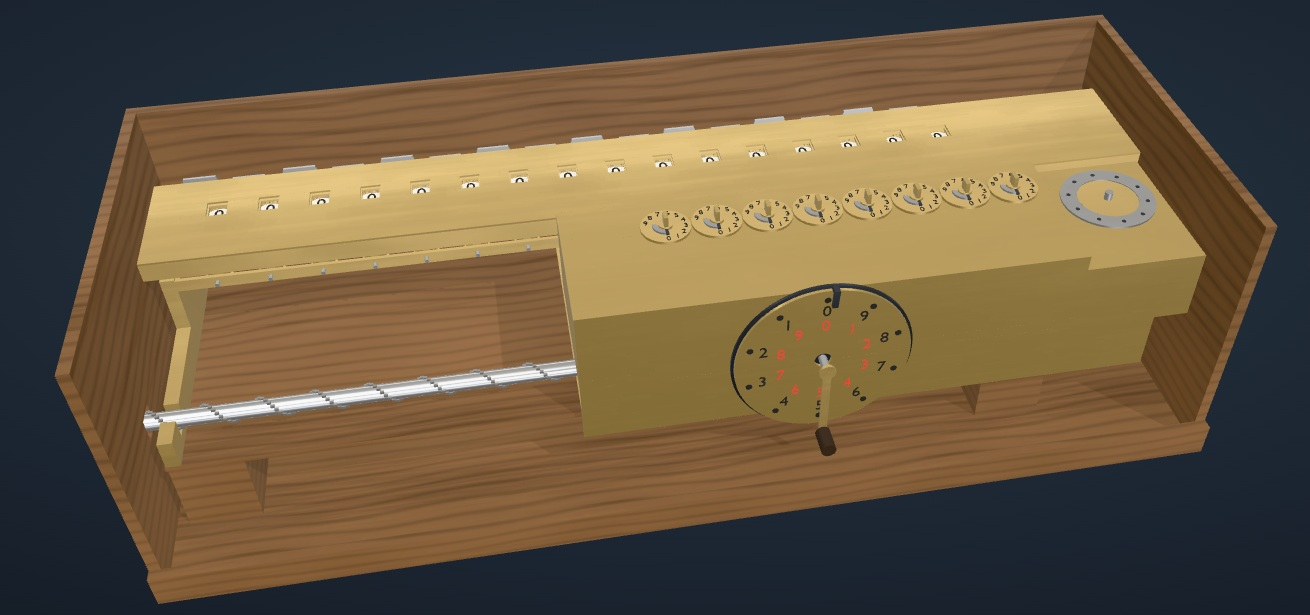
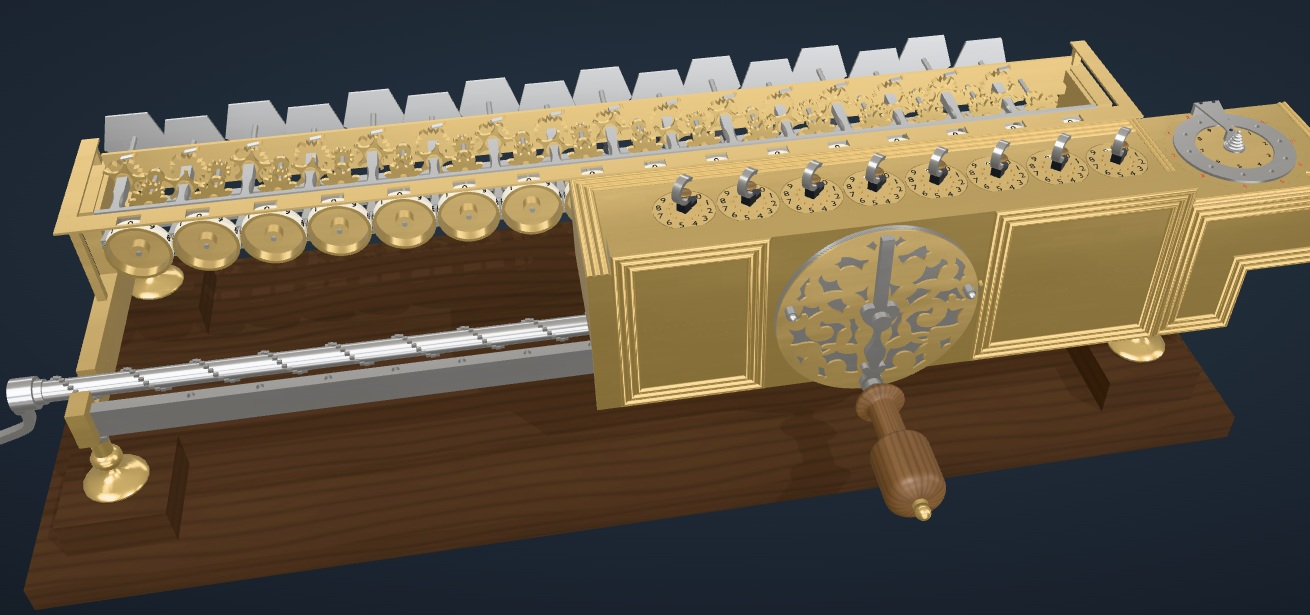
README and its pictures follow the v1.3.0 machine
- The revolution counter holds the pin and counts the turns: the controls, clicking,
  multiplying and dividing say so; the Views menu lists Counter and Slow motion;
  no oak case
- New pictures of the v1.3.0 machine (pnpm shots); the Magna Rota picture is replaced by
  the Counter view (view-counter), and the carry lesson's by its step with the carry
  levers; a Magna Rota shot joins the set for posts

diff --git a/README.md b/README.md
@@ -6,17 +6,17 @@
 
 **[Open the simulator](https://wixette.github.io/leibniz-stepped-reckoner/)**: nothing to install, free, in ten languages.
 
-![The simulator in free play: the whole machine in its oak case, the readouts above it, the toolbar below it, and the Get started panel on the right](images/readme/free-play.jpg)
+![The simulator in free play: the whole machine on its wooden board, the readouts above it, the toolbar below it, and the Get started panel on the right](images/readme/free-play.jpg)
 
 ## The machine
 
 Gottfried Wilhelm Leibniz (1646–1716), the philosopher and mathematician, wanted a machine that could do long sums so that people would not have to. His **stepped reckoner**, built in Hannover between about 1690 and his death, was the first calculating machine that could **add, subtract, multiply and divide**. One survives, in the Gottfried Wilhelm Leibniz Library in Hannover. Its key idea, the **stepped drum**, was at the heart of calculating machines for almost 300 years, until electronic calculators took over in the 1970s.
 
-The original is behind glass. This one you can turn: 8 setting knobs, a 16-digit result register, a sliding carriage and the big *Magna Rota* with its crank, each part moving as it does in the real machine.
+The original is behind glass. This one you can turn: 8 setting knobs, a 16-digit result register, a sliding carriage, the revolution counter that counts the crank's turns, and the big *Magna Rota* with its crank, each part moving as it does in the real machine.
 
 | The original in Hannover | The simulator |
 |---|---|
-| <img src="images/tutorial/original.jpg" alt="The surviving machine in its open wooden case: the brass carriage at the front with the Magna Rota and its crank, the row of result wheels behind it" width="338"> | <img src="images/readme/view-whole.jpg" alt="The 3D model from the same angle: the oak case, the brass carriage with the Magna Rota, the result windows and the lead screw" width="447"> |
+| <img src="images/tutorial/original.jpg" alt="The surviving machine in its open wooden case: the brass carriage at the front with the Magna Rota and its crank, the row of result wheels behind it" width="338"> | <img src="images/readme/view-whole.jpg" alt="The 3D model from the front: the brass carriage with the Magna Rota and its crank, the setting knobs and the revolution counter on its top, the result wheels and pentagons behind, the lead screw, on brass feet and a wooden board" width="447"> |
 | Photo: [Hajotthu](https://commons.wikimedia.org/wiki/File:Leibniz_Rechenmaschine_%281690%29.jpg), CC BY 3.0 | [Open it](https://wixette.github.io/leibniz-stepped-reckoner/) and turn the crank |
 
 ## Your first sum
@@ -26,7 +26,7 @@ The original is behind glass. This one you can turn: 8 setting knobs, a 16-digit
 1. **Set a number.** Type `2` in *Number on the knobs*, at the left of the toolbar. The units knob, the one on the right of the carriage, turns to 2.
 2. **Turn the crank.** Press **+**. The crank turns once, every drum turns with it, and the windows on top of the machine show `2` (so does *Result*, at the top left).
 3. **Add another number.** Type `3` in place of the 2 and press **+** again: `5`. You have just calculated on a machine from about 1700. **−** turns the crank backward and subtracts.
-4. **Look inside.** Open the **Views** menu at the top right, choose *Stepped drum* and press **+** once more. The case disappears, the other parts fade, and you can watch the drum's teeth turn the result wheel.
+4. **Look inside.** Open the **Views** menu at the top right, choose *Stepped drum* and press **+** once more. The frame disappears, the other parts fade, and you can watch the drum's teeth turn the result wheel.
 
    <img src="images/readme/view-drum.jpg" alt="The Stepped drum view: the units knob set to 3, its stepped drum and the small gear of the result wheel, the rest of the machine faded" width="640">
 
@@ -42,7 +42,7 @@ When you want more, the panel on the right holds a five-minute **tutorial** (*Ge
 | **Number on the knobs** | Type a number of up to 8 digits; the knobs follow as you type. |
 | **+** and **−** | Turn the crank once forward (adds the number on the knobs to the result) or backward (subtracts it). |
 | **Carriage** ‹ › | Slide the carriage one place left or right; the box shows its place. Each place to the left makes a turn count ten times as much. |
-| **Pin** and **Run to stop** | Put the Magna Rota's pin in a hole 1–9, or take it out; *Run to stop* turns the crank until the pin reaches the stop (hole 5: five turns). |
+| **Pin**, **Run to stop** and **Run back to stop** | Put the revolution counter's pin in a hole, or take it out. Each hole has a black number, for adding, and a red one, for turning back: choose which in the Pin menu. *Run to stop* turns the crank forward until the pin reaches the stop (black 5: five turns); *Run back to stop* turns it backward (red 3: three turns). |
 | **Carry** | Which carry the machine is fitted with: *Ripple*, the default, a modern pair of carry parts of our design (not historical) with the levers one after another, units first, so a chain of carries runs through within one turn; or *Original*, the machine in Hannover's own carry (all levers at once, so a carry can wait, its pentagon tilted, for another turn with 0 on the knobs). |
 | **Reset** | All wheels and knobs to 0, the carriage home, the pin out (the carry stays as chosen). |
 | **Sound** | The machine's sounds on or off. |
@@ -54,11 +54,11 @@ When you want more, the panel on the right holds a five-minute **tutorial** (*Ge
 | Zoom | scroll, or the magnifiers at the top right | pinch | `+` and `−` |
 | Go back to the start | the house at the top right | the house | Home |
 
-**Clicking the machine:** click a knob to step its digit, or a digit on its dial to set it; click the crank to turn it forward, Shift-click to turn it back, or drag either crank round its axle; click a hole of the Magna Rota to put the pin in; click a result wheel to move the carriage under it.
+**Clicking the machine:** click a knob to step its digit, or a digit on its dial to set it; click the crank to turn it forward, Shift-click to turn it back, or drag either crank round its axle; click a hole of the revolution counter (on the carriage's top right) to put the pin in, or the pin to take it out; click a result wheel to move the carriage under it.
 
-**The Views menu:** *Whole machine*, *Taken apart*, *Result*, *Setting knobs*, *Magna Rota*, and the two inside views, *Stepped drum* and *Carry*, which hide the case and fade the parts around the ones they show while the machine keeps working. *Show case and frame* puts the oak case, the frame and the carriage's front panel and floor on or off: off, only the working parts are left. *Colour by part* gives every kind of part a colour of its own. Taken apart, the machine cannot calculate; choose another view to put it back together.
+**The Views menu:** *Whole machine*, *Taken apart*, *Result*, *Setting knobs*, *Magna Rota*, *Counter*, and the two inside views, *Stepped drum* and *Carry*, which hide the frame and fade the parts around the ones they show while the machine keeps working. *Show the frame* puts the board and feet, the frame and the carriage's top, front panel and floor on or off: off, only the working parts are left. *Colour by part* gives every kind of part a colour of its own, and *Slow motion* plays every turn at a quarter speed. Taken apart, the machine cannot calculate; choose another view to put it back together.
 
-**Around the machine:** readouts at the top left (*Result*, the *Turns* the Magna Rota has counted, red when backward, and the *Carriage*'s place); the top bar with the mode (*Free play*, or the lesson and its step), the panel button, the language menu and *About*; and a status line at the bottom that says what just happened, or why a control cannot be used right now.
+**Around the machine:** readouts at the top left (*Result*, the *Turns* the revolution counter has counted, red when backward, and the *Carriage*'s place); the top bar with the mode (*Free play*, or the lesson and its step), the panel button, the language menu and *About*; and a status line at the bottom that says what just happened, or why a control cannot be used right now.
 
 </details>
 
@@ -78,7 +78,7 @@ Under each knob is a **stepped drum**, a cylinder with nine teeth of graded leng
 
 When a wheel passes from 9 to 0, its single tooth turns a **carry store**, and the store's **pentagon** tilts: the carry is stored, not yet added. At the end of the turn the **carry levers** sweep past the stores, units first, and pass each stored carry on to the next wheel. If that wheel passes 9 too, it stores its own carry just before its lever arrives, so 9999 + 1 becomes 10000 in a single turn. That is the *ripple carry*, the page's default: in each digit two of the original's carry parts, the lever's horns and a star on the store, are exchanged for a modern pair of our own design that works fast enough for a whole chain of carries to run through in one turn. It is not historical; the next lesson shows the original's own carry.
 
-<img src="images/readme/lesson-carry.jpg" alt="Lesson 2 in the page: the Carry view, with the units' result wheel, its carry store and its tilted pentagon standing out, and the lesson's step in the panel on the right" width="640">
+<img src="images/readme/lesson-carry.jpg" alt="Lesson 2 in the page: the Carry view after 9999 + 1 = 10000, the carry levers standing out behind the carry stores and their pentagons, and the lesson's step in the panel on the right" width="640">
 
 ### 3. Carries that wait: the original
 
@@ -92,25 +92,25 @@ Turning the crank backward subtracts, and a borrow is a carry in reverse. The ma
 
 The register at the back stays in place; the carriage at the front, with the knobs and drums, slides along it. One place to the left puts the knobs' units over the register's tens, so each turn adds ten times the number.
 
-<img src="images/readme/view-apart.jpg" alt="The machine taken apart: the cover plates and the row of result wheels lifted above the carriage, over the oak case" width="640">
+<img src="images/readme/view-apart.jpg" alt="The machine taken apart: the register frame, the row of result wheels and the carriage's top lifted apart, the knobs, drums and gears of the carriage open, over the wooden board" width="640">
 
 ### 6. Multiplying: 1709 × 365
 
-Multiplying is adding again and again, one digit of the multiplier at a time. Put the pin in the Magna Rota's hole for the digit, and the crank stops after exactly that many turns; then slide the carriage one place and do the next digit.
+Multiplying is adding again and again, one digit of the multiplier at a time. Put the revolution counter's pin at the digit's black number, and the crank stops after exactly that many turns; then slide the carriage one place and do the next digit.
 
 | Step | On the machine | Result |
 |---|---|---|
-| 1 | Set 1709. Pin in hole 5, *Run to stop*: five turns. | 8 545 |
-| 2 | Carriage one place left (each turn now adds 17 090). Pin in hole 6, *Run to stop*. | 111 085 |
-| 3 | One more place left (170 900 a turn). Pin in hole 3, *Run to stop*. | 623 785 |
+| 1 | Set 1709. Pin at black 5, *Run to stop*: five turns. | 8 545 |
+| 2 | Carriage one place left (each turn now adds 17 090). Pin at black 6, *Run to stop*. | 111 085 |
+| 3 | One more place left (170 900 a turn). Pin at black 3, *Run to stop*. | 623 785 |
 
 Fourteen turns instead of 365 additions.
 
-<img src="images/readme/view-magna.jpg" alt="The Magna Rota view: the big wheel with its black and red numbers, the pin in hole 5, the crank in its centre" width="640">
+<img src="images/readme/view-counter.jpg" alt="The Counter view two turns into 1709 × 5: the steel ring of ten holes between the black numbers on the centre and the red ones round it, the pin set at black 5 turned two holes toward the stop at the top" width="640">
 
 ### 7. Dividing: 623785 ÷ 1709
 
-Dividing is subtracting again and again. Subtract until the result goes below zero (its front wheels turn to 9s), add the divisor back once, and read that digit of the answer on the Magna Rota's red numbers; then slide the carriage one place right for the next digit.
+Dividing is subtracting again and again. Put the pin beside the stop, at black 0: each turn back moves it one number on. Subtract until the result goes below zero (its front wheels turn to 9s), add the divisor back once, and read that digit of the answer at the black number the pin points at; then slide the carriage one place right for the next digit.
 
 ## Things to try
 
@@ -118,7 +118,7 @@ Use **Reset** before each one.
 
 - **Eight carries in one turn.** Set 99999999 (the largest number the knobs hold) and press **+**. Then set 1, choose the *Carry* view, and press **+** again: every pentagon tilts, the carries run along, and the result is 100000000. Choose *Original* in the *Carry* box and try it again: now the carries wait, and each further turn with 0 on the knobs finishes two of them.
 - **Times eleven without multiplying.** Set 12 and press **+**. Slide the carriage one place left (the carriage's left arrow) and press **+** again. 12 + 120 = 132 = 12 × 11.
-- **Times by the pin.** Set 25, put the pin in hole 4 and press *Run to stop*: 100. Watch the Magna Rota count the turns.
+- **Times by the pin.** Set 25, put the pin at black 4 and press *Run to stop*: 100. Watch the revolution counter's ring carry the pin round to the stop, one hole a turn.
 - **Go below zero.** Set 1 and press **−**. What do the windows show, and why?
 
 ## For teachers
@@ -133,7 +133,7 @@ Use **Reset** before each one.
 
 ## How faithful is the model?
 
-The model is **kinematically faithful**: the mechanism and its angles follow the published sources (the timing of the drum's teeth, the stored carry and its pentagon, the carry levers, the 36.5 mm step of the carriage). The parts Klaus Badur measured on the original in Hannover have its sizes: the stepped drums, the result and setting discs, the pentagons, the revolution counter, the carriage and the oak case. The other main parts follow N. J. Lehmann's workshop drawings of the replica at TU Dresden, kept in the Deutsches Museum's archive, and the rest come from published measurements and from photographs of the original and of that replica ([decision 0002](design/decisions/0002-original-replica-and-releases.md)). Many small part sizes had to be estimated, and the digits are deliberately larger than on the original so that they can be read on a screen.
+The model is **kinematically faithful**: the mechanism and its angles follow the published sources (the timing of the drum's teeth, the stored carry and its pentagon, the carry levers, the 36.5 mm step of the carriage). The parts Klaus Badur measured on the original in Hannover have its sizes: the stepped drums, the result and setting discs, the pentagons, the revolution counter, the carriage and the Magna Rota. The other main parts, the frame and its feet among them, follow N. J. Lehmann's workshop drawings of the replica at TU Dresden, kept in the Deutsches Museum's archive, and the rest come from published measurements and from photographs of the original and of that replica ([decision 0002](design/decisions/0002-original-replica-and-releases.md)). Many small part sizes had to be estimated, and the digits are deliberately larger than on the original so that they can be read on a screen.
 
 Where the sources disagree or say nothing, the choice is written down with its reason. The best-known example is the carry. On the original in Hannover all the carry levers act at once, and a carry can wait for the next turn; the model builds that carry from Klaus Badur's drawings of its parts. A chain of carries that runs through within one turn is friendlier for a newcomer, so the page's default is a *ripple carry*: in each digit two of the original's carry parts are exchanged for a faster pair of our own design (a longer lever and a small star, behind the drums), and every other part stays the original's. It is a modern addition, neither the original's nor that of N. J. Lehmann's Dresden replica (whose own parts and timing finish a long chain early in the next turn). Lessons 2 and 3 show both, and the toolbar's *Carry* box switches between them ([decision 0001](design/decisions/0001-carry-interpretation.md), [v1.3 notes](design/v1.3-notes.md)). Every dimension and angle, with its source and how sure we are of it, is in [params/machine.json](params/machine.json), and the research behind it is in [research/REPORT.md](research/REPORT.md).
 
